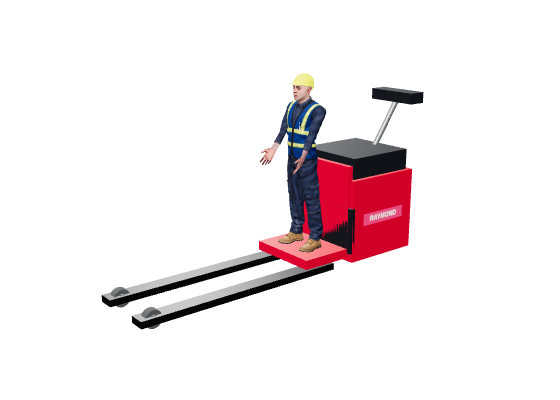
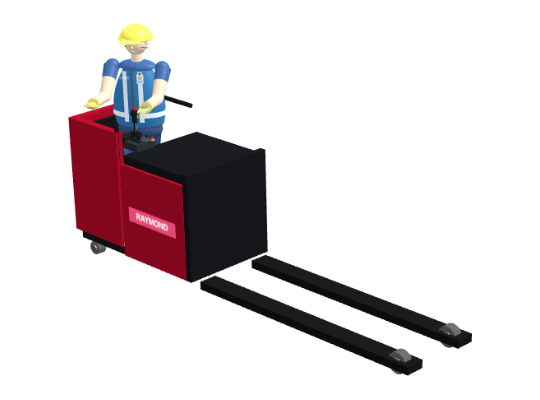
Portal: identificación única con puesto, catálogo ordenado por la ruta del puesto e imagen correcta del patín eléctrico (v22.8)
Claude-Session: https://claude.ai/code/session_01BjkPBGubDdTQ63HbPgzWyq

Changed region(s): [[0.1185, 0.06, 0.8889, 0.96], [0.6519, 0.21, 0.7704, 0.33]]

diff --git a/index.html b/index.html
@@ -201,6 +201,10 @@
   @media print { header, .hbtns, .dbar .dtabs, .dtools, .dbtn { display:none !important; } .dash { position:static; } .dbody { overflow:visible; background:#fff; } }
   footer { text-align:center; color:#8fa0e0; font-size:11px; padding:1.5rem; }
   @media (max-width:640px){ header{padding:0.9rem 1rem} .hero h1{font-size:24px} .brand .tag{display:none} }
+.rutaBar{color:#fff;font-size:14px;margin:0 0 10px;display:flex;flex-wrap:wrap;align-items:center;gap:6px}
+.card.enRuta{outline:3px solid #ffd600;position:relative}.rutaTag{position:absolute;top:8px;left:50%;transform:translateX(-50%);z-index:2;background:#ffd600;color:#1a237e;font:800 11px Poppins,sans-serif;padding:3px 10px;border-radius:20px;letter-spacing:.5px}
+.rutaSep{grid-column:1/-1;color:#fff;font:700 15px Poppins,sans-serif;margin:8px 0 -4px;opacity:.85}
+.idl{display:flex;flex-direction:column;font-size:12px;font-weight:700;color:#1D2586;gap:3px}.idl input,.idl select{width:100%;box-sizing:border-box;min-width:0;padding:9px;border:1.5px solid #d6dbea;border-radius:9px;font-size:15px;font-weight:500;color:#222}
 </style>
 </head>
 <body>
@@ -237,7 +241,7 @@
   <div class="catalogo hidden" id="catalogo">
   <div class="sechead" id="simuladores">
     <div><h2>Simuladores disponibles</h2><small>Selecciona un curso · los resultados se registran automáticamente</small></div>
-    <div class="filters" id="filters"></div>
+    <div class="rutaBar" id="rutaBar"></div><div class="filters" id="filters"></div>
   </div>
   <div class="grid" id="grid"></div>
   </div>
@@ -245,6 +249,25 @@
 
 <footer>DICKA Logistics · Simulador de Operaciones · Dojo Virtual · Departamento de Capacitación · Para agregar un simulador usa ⚙ Administrar</footer>
 
+
+<!-- Identificación única del colaborador -->
+<div id="idModal" style="display:none;position:fixed;inset:0;z-index:10000;background:rgba(1,17,49,.88);align-items:center;justify-content:center;padding:16px">
+  <div style="background:#fff;border-radius:16px;max-width:440px;width:100%;padding:20px 20px 16px;max-height:92vh;overflow:auto;font-family:system-ui,sans-serif">
+    <h2 style="margin:0 0 4px;color:#1D2586;font-family:Poppins,sans-serif">👤 ¿Quién eres?</h2>
+    <p style="margin:0 0 12px;color:#555;font-size:14px">Llénalo una sola vez. Con tu puesto te mostramos primero los simuladores que te tocan y ningún juego te los vuelve a pedir.</p>
+    <div style="display:grid;grid-template-columns:minmax(0,1fr) minmax(0,1fr);gap:8px">
+      <label class="idl">Nombre(s)<input id="idNom" autocomplete="given-name"></label><label class="idl">Apellidos<input id="idApe" autocomplete="family-name"></label>
+      <label class="idl" style="grid-column:1/-1">Número de empleado<input id="idNum" inputmode="numeric" placeholder="Ej. 10457"></label>
+      <label class="idl" style="grid-column:1/-1">Puesto<select id="idPuesto"></select></label>
+      <label class="idl" style="grid-column:1/-1">Almacén<select id="idWh"><option>Agave 1</option><option>Agave 3</option><option>Mezquite 1</option><option>Mezquite 2</option><option>BIC</option><option>Celaya</option><option>Toluca</option><option>Escobedo</option></select></label>
+    </div>
+    <div id="idErr" style="color:#c62828;font-size:13px;min-height:18px;margin:6px 0"></div>
+    <button id="idOk" onclick="idGuardar()" style="width:100%;padding:12px;border:0;border-radius:10px;background:#1D2586;color:#fff;font-weight:800;font-size:15px;cursor:pointer">Entrar →</button>
+    <button id="idSkip" onclick="idCerrar()" style="width:100%;margin-top:6px;padding:8px;border:0;background:none;color:#666;cursor:pointer;font-size:13px">Solo quiero ver el catálogo</button>
+    <p style="font-size:11.5px;color:#888;margin:8px 0 0">Tus datos se guardan solo en este equipo y aparecen en tus resultados.</p>
+  </div>
+</div>
+<div id="idChip" style="display:none;position:fixed;right:10px;top:70px;z-index:9000;background:#fff;color:#1D2586;border-radius:20px;padding:7px 12px;font:700 12.5px system-ui,sans-serif;box-shadow:0 2px 10px rgba(0,0,0,.3)"></div>
 <!-- Dashboard de resultados -->
 <div class="dash" id="dash">
   <div class="dbar">
@@ -295,6 +318,17 @@
 
 <script>
 // ====== CATÁLOGO BASE (edita aquí para agregar juegos fijos) ======
+const PRF_KEY='dicka_puestos';
+const PRF_BASE=['turno-seguro-3d','examen-seguridad','extintores-3d','5s','ergonomia','emergencias','senalizacion'];
+const PRF_DEF={
+  'Montacarguista':['montacarga','andenes','cargas','loto',...PRF_BASE],
+  'Aux de Almacén':['surtido','metodos','excepciones','conteo',...PRF_BASE],
+  'Surtidor':['surtido','metodos','excepciones','slotting',...PRF_BASE],
+  'Recibidor':['recepcion','sellos','devoluciones','frio',...PRF_BASE],
+  'Embarcador':['embarques','patio','carga','sellos',...PRF_BASE],
+  'Supervisor de Operaciones':['flujo','crossdock','conteo','loto','matpel','dojo-de-mando',...PRF_BASE],
+  'Jefe de Turno':['flujo','patio','embarques','dojo-de-mando',...PRF_BASE],
+  'Gerente de Operaciones':['tablero','planeacion','dojo-de-mando','flujo','slotting','crossdock','emergencias']};
 const BASE_GAMES = [
   { id:'diag', name:'Validación de joystick y volante USB', icon:'🔌', cat:'Herramientas', status:'activo', time:'2 min', pass:'—', desc:'Comprueba que el navegador detecta el Logitech Extreme 3D Pro y el volante G920, con prueba funcional guiada de ejes y botones y guía de solución.', url:'juegos/diagnostico-usb.html', hideFromCount:true, hiddenCard:true },
   { id:'montacarga', name:'Simulador de Montacarga', icon:"<svg viewBox='0 0 120 80' width='96' height='64' xmlns='http://www.w3.org/2000/svg'><rect x='14' y='34' width='46' height='22' rx='3' fill='#c8102e'/><rect x='40' y='16' width='20' height='20' rx='2' fill='#c8102e'/><rect x='44' y='19' width='12' height='11' fill='#dfe7ff' opacity='.85'/><rect x='18' y='10' width='40' height='3' fill='#1a1a1a'/><rect x='20' y='13' width='3' height='22' fill='#1a1a1a'/><rect x='55' y='13' width='3' height='22' fill='#1a1a1a'/><rect x='8' y='30' width='8' height='26' rx='2' fill='#1a1a1a'/><rect x='62' y='6' width='4' height='52' fill='#9a9a9a'/><rect x='68' y='6' width='4' height='52' fill='#9a9a9a'/><rect x='60' y='38' width='14' height='10' fill='#1a1a1a'/><rect x='72' y='56' width='40' height='4' fill='#1a1a1a'/><rect x='72' y='44' width='4' height='16' fill='#1a1a1a'/><rect x='78' y='40' width='28' height='16' fill='#c9a875' stroke='#8a6a40'/><rect x='80' y='42' width='24' height='3' fill='#2138D3'/><circle cx='24' cy='60' r='9' fill='#111'/><circle cx='24' cy='60' r='4' fill='#888'/><circle cx='54' cy='60' r='9' fill='#111'/><circle cx='54' cy='60' r='4' fill='#888'/><circle cx='50' cy='8' r='3' fill='#ff9900'/><text x='27' y='49' font-family='Arial Black,Arial' font-weight='900' font-size='7' fill='#fff'>RAYMOND</text></svg>", cat:'Equipo', status:'activo', time:'20 min', pass:'160/200 · 80/100',
@@ -342,16 +376,37 @@ function cfg(){ try{return JSON.parse(localStorage.getItem(LS_CFG)||'{}')}catch(
 function allGames(){ const c=cfg(); return [...BASE_GAMES.map(g=>({...g,...(c[g.id]||{})})), ...customGames()].filter(g=>!g.hidden); }
 let filter='Todos', current=null;
 
+
+function idLeer(){ try{ return JSON.parse(localStorage.getItem('dicka_perfil')||'null'); }catch(e){ return null; } }
+function idAbrir(){ const p=idLeer()||{}, m=prfLoad(); const sel=document.getElementById('idPuesto'); sel.innerHTML='<option value="">Elige tu puesto…</option>'+Object.keys(m).sort().map(x=>`<option>${x.replace(/</g,'&lt;')}</option>`).join('')+'<option value="__otro">Otro…</option>';
+  document.getElementById('idNom').value=p.nombre||''; document.getElementById('idApe').value=p.apellidos||''; document.getElementById('idNum').value=p.num||''; if(p.puesto){ if(!m[p.puesto]) sel.insertAdjacentHTML('beforeend',`<option>${p.puesto.replace(/</g,'&lt;')}</option>`); sel.value=p.puesto; } if(p.wh) document.getElementById('idWh').value=p.wh;
+  document.getElementById('idErr').textContent=''; document.getElementById('idModal').style.display='flex'; setTimeout(()=>document.getElementById('idNom').focus(),50); }
+function idCerrar(){ try{ sessionStorage.setItem('dicka_id_skip','1'); }catch(e){} document.getElementById('idModal').style.display='none'; }
+function idGuardar(){ const v=id=>document.getElementById(id).value.trim(); let pu=document.getElementById('idPuesto').value; const err=t=>{ document.getElementById('idErr').textContent=t; };
+  if(v('idNom').length<2) return err('Escribe tu nombre'); if(v('idApe').length<2) return err('Escribe tus apellidos'); if(!/^[A-Za-z0-9-]{3,15}$/.test(v('idNum'))) return err('Escribe tu número de empleado (3 a 15 caracteres, sin espacios)');
+  if(pu==='__otro'){ pu=(prompt('¿Cuál es tu puesto?')||'').trim(); } if(!pu) return err('Elige tu puesto');
+  try{ localStorage.setItem('dicka_perfil',JSON.stringify({nombre:v('idNom'),apellidos:v('idApe'),num:v('idNum'),puesto:pu,wh:document.getElementById('idWh').value})); localStorage.removeItem('dicka_ver_puesto'); }catch(e){}
+  document.getElementById('idModal').style.display='none'; idChip(); render(); }
+function idChip(){ const p=idLeer(), c=document.getElementById('idChip'); if(!p){ c.style.display='none'; return; } c.innerHTML=`👤 ${(p.nombre+' '+(p.apellidos||'')).replace(/</g,'&lt;')} · ${(p.puesto||'').replace(/</g,'&lt;')} · <a href="#" onclick="idAbrir();return false" style="color:#c62828">Cambiar</a>`; c.style.display='block'; }
+document.addEventListener('DOMContentLoaded',()=>{ idChip(); let skip=false; try{ skip=sessionStorage.getItem('dicka_id_skip')==='1'; }catch(e){} if(!idLeer()&&!skip&&!/[?&](tv|kiosk)/.test(location.search)) idAbrir(); });
+function verPuesto(){ try{ const v=localStorage.getItem('dicka_ver_puesto'); if(v!==null) return v; const p=JSON.parse(localStorage.getItem('dicka_perfil')||'null'); return p&&p.puesto||''; }catch(e){ return ''; } }
+function setVerPuesto(v){ try{ localStorage.setItem('dicka_ver_puesto',v); }catch(e){} render(); }
 function render(){
   const games=allGames().filter(g=>!g.hiddenCard);   // la validación USB vive en el menú principal y dentro del simulador, no en el catálogo
   const cats=['Todos',...new Set(games.map(g=>g.cat))];
   document.getElementById('filters').innerHTML=cats.map(c=>`<button class="chip ${c===filter?'active':''}" onclick="filter='${c}';render()">${c}</button>`).join('');
-  const list=games.filter(g=>filter==='Todos'||g.cat===filter);
-  document.getElementById('grid').innerHTML=list.map(g=>`
-    <div class="card">
+  let list=games.filter(g=>filter==='Todos'||g.cat===filter);
+  const pm=prfLoad(), pu=verPuesto(), ruta=pu?prfRuta(pm,pu).filter(id=>games.some(g=>g.id===id)):[];
+  const yo=(()=>{ try{ return JSON.parse(localStorage.getItem('dicka_perfil')||'null'); }catch(e){ return null; } })();
+  const apr=new Set(collectResults().filter(r=>r.aprobado&&yo&&((yo.num&&String(r.num)===String(yo.num))||(r.nombre||'').toLowerCase().startsWith((yo.nombre||'').toLowerCase()+' '))).map(r=>r.juego));
+  if(ruta.length) list=[...ruta.map(id=>list.find(g=>g.id===id)).filter(Boolean),...list.filter(g=>!ruta.includes(g.id))];
+  const nR=list.filter(g=>ruta.includes(g.id)).length, nA=list.filter(g=>ruta.includes(g.id)&&apr.has(g.name)).length;
+  document.getElementById('rutaBar').innerHTML=`<label style="font-weight:700">🧭 Ver simuladores para el puesto:</label> <select id="rutaSel" onchange="setVerPuesto(this.value)" style="padding:7px 10px;border-radius:9px;border:0;font-weight:700"><option value="">Todos los puestos (sin orden)</option>${Object.keys(pm).sort().map(p=>`<option ${p===pu?'selected':''}>${p.replace(/</g,'&lt;')}</option>`).join('')}${pu&&!pm[pu]?`<option selected>${pu.replace(/</g,'&lt;')}</option>`:''}</select>${ruta.length?` <span style="margin-left:6px">Tu ruta: <b>${nR}</b> simuladores${yo?` · <b>${nA}</b> aprobados`:''}</span>`:''}`;
+  document.getElementById('grid').innerHTML=list.map((g,i)=>`${ruta.length&&i===nR&&i<list.length?'<div class="rutaSep">Otros simuladores</div>':''}
+    <div class="card${ruta.includes(g.id)?' enRuta':''}">${ruta.includes(g.id)?`<span class="rutaTag">${apr.has(g.name)?'✓ APROBADO':'TU RUTA · '+(ruta.indexOf(g.id)+1)}</span>`:''}
       <div class="cover">${g.icon}<span class="cat">${g.cat.toUpperCase()}</span><span class="status ${g.status}">${g.status==='activo'?'ACTIVO':g.status==='beta'?'BETA':'PRÓXIMAMENTE'}</span></div>
       <div class="body">
-        <h3><span style="color:var(--brillante)">${String(list.indexOf(g)+1).padStart(2,'0')}</span> · ${g.name}</h3><p>${g.desc||''}</p>
+        <h3><span style="color:var(--brillante)">${String(i+1).padStart(2,'0')}</span> · ${g.name}</h3><p>${g.desc||''}</p>
         <div class="meta"><span>${g.time||'—'}</span><span>Aprueba: ${g.pass||'—'}</span></div>
         <button class="play" ${(!g.url||g.status==='proximo')?'disabled':''} onclick="play('${g.id}')">${!g.url?'SIN LIGA CONFIGURADA':g.status==='proximo'?'EN DESARROLLO':'▶ JUGAR'}</button>
         <button class="del" onclick="removeGame('${g.id}')">quitar</button>
@@ -534,17 +589,6 @@ function tools(){ const all=collectResults(); const whs=[...new Set(all.map(r=>r
 function medal(i){ return i===0?'🥇':i===1?'🥈':i===2?'🥉':`<b style="color:#838383">${i+1}</b>`; }
 
 /* ===== Perfiles de puesto y de persona (RH / Capacitación) ===== */
-const PRF_KEY='dicka_puestos';
-const PRF_BASE=['turno-seguro-3d','examen-seguridad','extintores-3d','5s','ergonomia','emergencias','senalizacion'];
-const PRF_DEF={
-  'Montacarguista':[...PRF_BASE,'montacarga','andenes','cargas','loto'],
-  'Aux de Almacén':[...PRF_BASE,'surtido','metodos','excepciones','conteo'],
-  'Surtidor':[...PRF_BASE,'surtido','metodos','excepciones','slotting'],
-  'Recibidor':[...PRF_BASE,'recepcion','sellos','devoluciones','frio'],
-  'Embarcador':[...PRF_BASE,'embarques','patio','carga','sellos'],
-  'Supervisor de Operaciones':[...PRF_BASE,'flujo','crossdock','conteo','loto','matpel','dojo-de-mando'],
-  'Jefe de Turno':[...PRF_BASE,'flujo','patio','embarques','dojo-de-mando'],
-  'Gerente de Operaciones':['tablero','planeacion','dojo-de-mando','flujo','slotting','crossdock','emergencias']};
 function prfLoad(){ try{ return Object.assign({},PRF_DEF,JSON.parse(localStorage.getItem(PRF_KEY)||'{}')); }catch(e){ return {...PRF_DEF}; } }
 function prfSave(m){ try{ localStorage.setItem(PRF_KEY,JSON.stringify(m)); }catch(e){} }
 function prfRuta(m,puesto){ if(m[puesto]) return m[puesto]; const p=(puesto||'').toLowerCase(); const k=Object.keys(m).find(x=>p&&(p.includes(x.toLowerCase())||x.toLowerCase().includes(p))); if(k) return m[k];

diff --git a/pruebas/validar.js b/pruebas/validar.js
@@ -475,6 +475,13 @@ for (const f of fs.readdirSync(path.join(ROOT, 'netlify/functions'))) { let err 
     const r = await q.evaluate(() => { const tuto = !!document.getElementById('tuto'); document.getElementById('tutoOk').click(); const i = L.findIndex(c => c.ok === 's5'); openH(i); const hints = document.querySelectorAll('#stage .acts button small').length; const w = Object.keys(D).find(k => k !== L[idx].ok); document.querySelector(`[data-d="${w}"]`).click(); const fb = document.getElementById('fb').textContent; return { tuto, hints, fb: /Lo correcto/.test(fb) && /Por qué/.test(fb) && /Tu respuesta/.test(fb), opciones: getComputedStyle(document.querySelector('#stage .acts')).display === 'none', salidas: !!document.getElementById('salidas') }; });
     await b3.close();
     ok('Recorridos 3D', 'guía al iniciar, cada opción con su explicación y retroalimentación con lo correcto, el porqué y por qué no tu respuesta', r.tuto && r.hints === 6 && r.fb && r.opciones && r.salidas && !e.length, JSON.stringify(r) + (e[0] || '')); }
+  // Portal: pide nombre, número, puesto y almacén una vez; ordena el catálogo por la ruta del puesto y los juegos entran directo
+  { const cx2 = await b.newContext({ viewport: { width: 390, height: 844 } }); const q = await cx2.newPage(); const e = []; q.on('pageerror', x => e.push(x.message));
+    await q.goto(url('index.html')); await q.waitForTimeout(600); const pide = await q.isVisible('#idModal');
+    await q.fill('#idNom', 'Ana'); await q.fill('#idApe', 'Torres Ruiz'); await q.fill('#idNum', '10457'); await q.selectOption('#idPuesto', 'Montacarguista'); await q.click('#idOk'); await q.waitForTimeout(300);
+    const r = await q.evaluate(() => ({ modal: getComputedStyle(document.getElementById('idModal')).display, primero: document.querySelector('#grid .card h3').textContent, tags: document.querySelectorAll('.rutaTag').length }));
+    const g = await cx2.newPage(); await g.goto(url('juegos/5s-almacen.html')); await g.waitForTimeout(900); const directo = await g.evaluate(() => document.getElementById('intro').classList.contains('hidden')); await cx2.close();
+    ok('Portal', 'pide los datos una vez, ordena por la ruta del puesto y los juegos entran directo', pide && r.modal === 'none' && /Montacarga/.test(r.primero) && r.tags >= 5 && directo && !e.length, JSON.stringify(r) + directo + (e[0] || '')); }
   // tráfico: si los avatares cargaron, debe haber movimiento sin atascos
   const traf = await p.evaluate(() => { if (!NPC.forks.length) return null; const snap = () => NPC.forks.map(f => f.x.toFixed(1) + ',' + f.z.toFixed(1)).join('|');
     const a = snap(); for (let i = 0; i < 2000; i++) updateTraffic(0.05); const b = snap(); for (let i = 0; i < 2000; i++) updateTraffic(0.05); return { mov: a !== b && b !== snap() }; });

diff --git a/juegos/simulador-montacarga.html b/juegos/simulador-montacarga.html
@@ -2394,7 +2394,7 @@
 
         // ================== SONIDO AMBIENTE DEL EQUIPO ==================
         const SND = { on: false, motor: null, motorGain: null, hyd: null, hydGain: null, revT: 0 };
-        const SIM_BUILD = '2026.10.09 · v22.7 Dojo: boca al hablar, mi avance y redacción más clara';   // visible en el menú: permite confirmar que el navegador cargó la versión publicada
+        const SIM_BUILD = '2026.10.09 · v22.8 Dojo: boca al hablar, mi avance y redacción más clara';   // visible en el menú: permite confirmar que el navegador cargó la versión publicada
         document.addEventListener('DOMContentLoaded', () => { const st = document.querySelector('.subtitle'); if (st) st.insertAdjacentHTML('beforeend', `<span style="display:block;font-size:11px;opacity:.6;margin-top:4px">Versión ${SIM_BUILD}</span>`); console.log('[SIM] versión', SIM_BUILD); });
         
         // ====== Ambiente de almacén: ventilación/naves, montacargas NPC (motor según distancia), alarmas de reversa lejanas, tarimas, golpes metálicos, voces y radio ======

diff --git a/docs/mejoras.md b/docs/mejoras.md
@@ -138,3 +138,4 @@ Una mejora no se marca ✅ ni se sube al PR si falla cualquier paso.
 | 2026-11-18 19:40 UTC | Reporte | Acceso único (js/perfil.js en 31 juegos): los datos del empleado (nombre, número, puesto, almacén) se capturan una vez y los demás juegos los llenan solos con aviso «Entraste como… · Continuar con mis datos / No soy yo»; el puesto no se pierde en juegos con otra lista; solo en el dispositivo (localStorage), nada a servidores. A pedido del usuario (v22.5) | validar.js 100 % (+2 nuevas) · 31 juegos probados con un solo registro · dojo-ia 100 % · consola limpia · 390 px revisadas · privacidad OK | PENDIENTE | ✅ |
 | 2026-11-18 20:10 UTC | Reporte | Perfiles para RH/Capacitación: pestaña «👥 Perfiles» en el Dashboard con rutas por puesto (8 puestos sugeridos, editables, agregar puesto, exportar/importar JSON) y perfil de cada colaborador (avance de su ruta, pendientes y competencias por categoría con su mejor puntaje). Se renombra el nuevo «Conteo Cíclico» a «Conteo Cíclico ABC» para no mezclarlo con el existente; pestañas del dashboard bajan de línea en celular (v22.6) | validar.js 100 % (+2 nuevas) · dojo-ia 100 % · consola limpia · 1280/390 px revisadas · privacidad OK (solo en el equipo) | PENDIENTE | ✅ |
 | 2026-11-18 21:00 UTC | Reporte | Claridad en los 15 recorridos 3D y acceso directo: guía «¿Cómo se juega?» con la descripción del juego; cada opción explica cuándo aplica; la cámara se acerca al objeto y en computadora el panel va al costado; al responder se ocultan las opciones y la retroalimentación dice lo correcto, por qué en este caso y por qué no la respuesta elegida. Cross-Docking rediseñado con tablero «Salidas de hoy» (hora actual, andén, destino y hora) y casos deducibles. Si el equipo ya tiene los datos del empleado, los 31 juegos se saltan el registro y muestran «👤 nombre · No soy yo» (v22.7) | validar.js 100 % (+1 nueva; acceso único actualizado) · 31 juegos entran directo · dojo-ia 100 % · consola limpia · 1280/390 px revisadas · privacidad OK | PENDIENTE | ✅ |
+| 2026-11-18 21:40 UTC | Reporte | Portal: ventana «¿Quién eres?» al entrar (nombre, apellidos, número, puesto, almacén) una sola vez; el catálogo se reordena con la ruta del puesto primero (etiqueta «TU RUTA · n» o «✓ APROBADO», contador de aprobados, selector para ver otro puesto) y los juegos entran directo; rutas con lo específico del puesto antes que seguridad general. Imagen del Patín eléctrico Raymond 8250 corregida: generada del modelo 3D del simulador (operador en la plataforma trasera con timón, horquillas al frente) (v22.8) | validar.js 100 % (+1 nueva) · dojo-ia 100 % · consola limpia · 1280/390 px revisadas · privacidad OK | PENDIENTE | ✅ |
